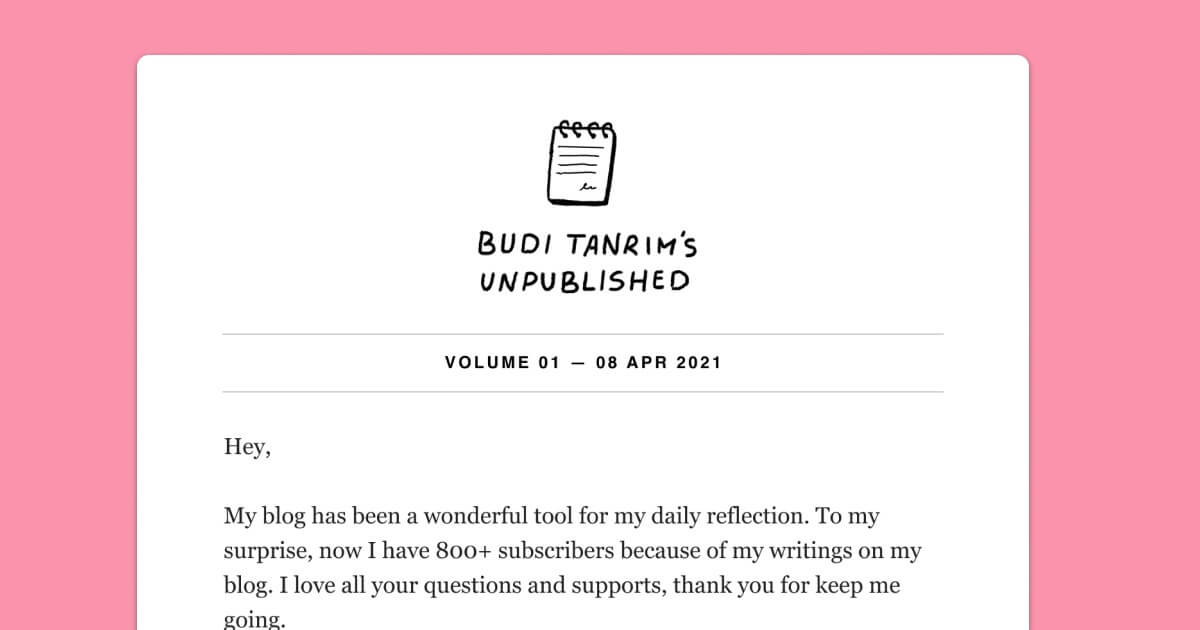
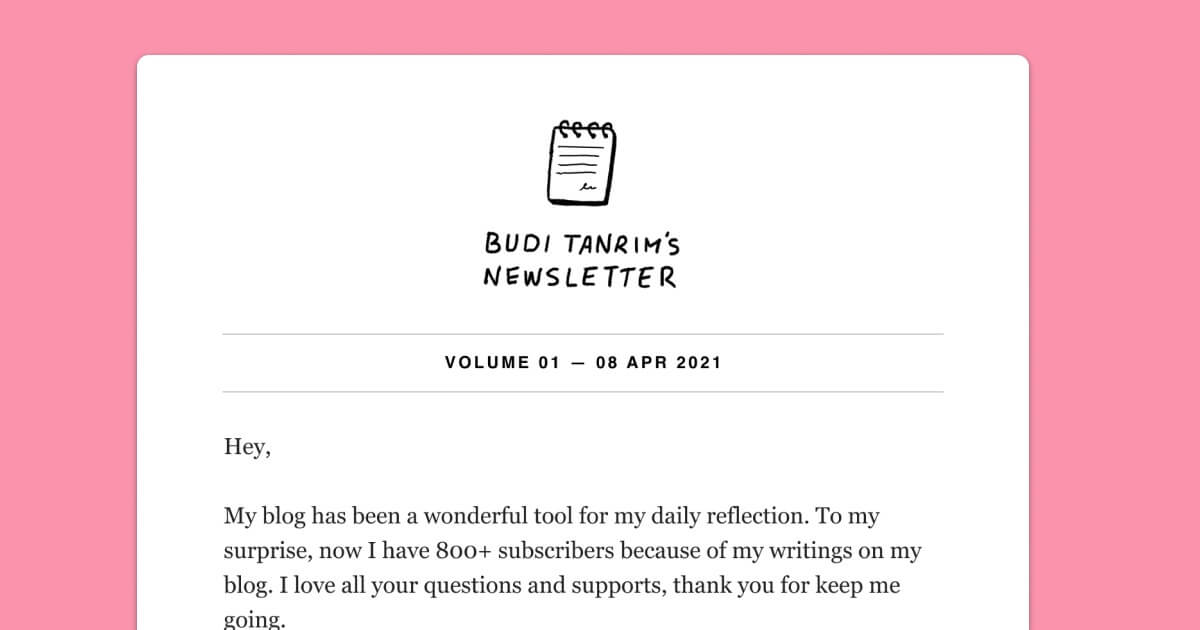
new

Changed region(s): [[0.4008, 0.3619, 0.5858, 0.4825]]

diff --git a/_sass/components/_button.scss b/_sass/components/_button.scss
@@ -16,13 +16,18 @@ button {
 [class*="btn-"] { font-family: var(--t--family-sans-serif); }
 
 .btn {
+	&-full {
+		width: 100%;
+		display: block
+	}
 	&-large {
 		padding: 8px 24px;
 		// line-height: 42px; commented out because we will use <button> instead of <a>
 	}
 
 	&-medium {
-		padding: 16px 28px;
+		padding: 12px 20px;
+		font-size: var(--t--size-03);
 		// line-height: 42px;
 	}
 

diff --git a/newsletter.md b/newsletter.md
@@ -1,7 +1,7 @@
 ---
 layout: simple-page
 title: Thank you for subscribing
-description: Head of Design at Bukalapak and human-centered practicioner
+description: Sign up to Budi Tanrim's Newsletter
 id: newsletter
 
 image:
@@ -17,41 +17,37 @@ twitter-seo:
     <img src="/img/asset/newsletter-logo-left.jpg" alt="Budi Tanrim's newsletter"/>
 </div>
 
-## Newsletter: Budi Tanrim's Unpublished
+#### Every Thursday, discussing reader questions about product design, challenges on work, personal development, people management, and anything relevant to our work as design practitioners.
 
-_Candid discussion on product design. Every Thursday._
+<div class="m-t-m m-b-m">
+    <a href="http://eepurl.com/cuGqAP" class="btn-dark btn-medium">Subscribe</a>
+</div>
 
-<a href="http://eepurl.com/cuGqAP" class="btn-dark btn-small">Subscribe</a>
+**What to expect:**
+- **Exclusive newsletter** (_every Thursday_)
+- **Free resources** (_A few times per year_)
+- **My book draft** (_A few times per year_)
+- **Writing from my blog** (_Optional, you can choose_)
+
 
 ---
 
 **What readers are saying:**
 
->"I’ve been subscribed to Budi’s newsletter for a month or so and have really enjoyed the thought provoking content he writes! I highly recommend."
+>"I’ve been subscribed to Budi’s newsletter for a month or so and have really enjoyed the thought provoking content he writes! I highly recommend." — Amy
 {:.humble}
-> "Your writing is interesting and to the point. Keep it up."
+> "I really enjoy reading your experiences because I am currently in that space - I can relate." — Happiness
 > 
-> "I really like your writing, makes me learn a lot."
+> "I really like your writing, [it] makes me learn a lot." — Abdi
 > 
-> "Your content is amazing and it's easy to read."
+> "Your content is amazing and it's easy to read." — Naqiya
 {:.humble}
 
-
-<div class="img-wrapper m-b-s m-t-s">
+<div class="img-wrapper m-t-s m-b-s">
     <img src="/img/asset/newsletter-example.jpg" alt="Budi Tanrim's newsletter"/>
 </div>
 
-**What to expect:**
-
-Every Thursday, in every volume of Unpublished, we’ll discuss reader questions about product design, challenges on work, personal development, leadership, and anything that relevant in our work as a design practitioners.
-
-<a href="http://eepurl.com/cuGqAP" class="btn-dark btn-small">Subscribe</a>
-
-
-
----
-
-## FAQ
+<!-- ## FAQ
 
 #### I have subscribed before, what should I do to get the exclusive newsletter?
 If you have subscribed to my newsletter before, you don't have to resubscribe to get the exclusive newsletter (Budi Tanrim's Unpublished). You will automatically get one.
@@ -66,11 +62,8 @@ _Daily blog + Budi Tanrim's Unpublished:_ <br/>You will get my writing right int
 
 _Weekly blog summary + Budi Tanrim's Unpublished:_<br/> You will get a list of post title every Saturday + the newsletter every Thursday.
 
-_Budi Tanrim's Unpublished:_ <br/>You will only get the newsletter every Thursday without anything from my blog.
+_Budi Tanrim's Unpublished:_ <br/>You will only get the newsletter every Thursday without anything from my blog. -->
 
-<div class="img-wrapper m-b-m m-t-xl">
-    <img src="https://buditanrim.co/img/post/2020/10/writing-design-story.jpg" alt="Writing illustration buditanrim" class="illustration small" />
-</div>
 
 
 
